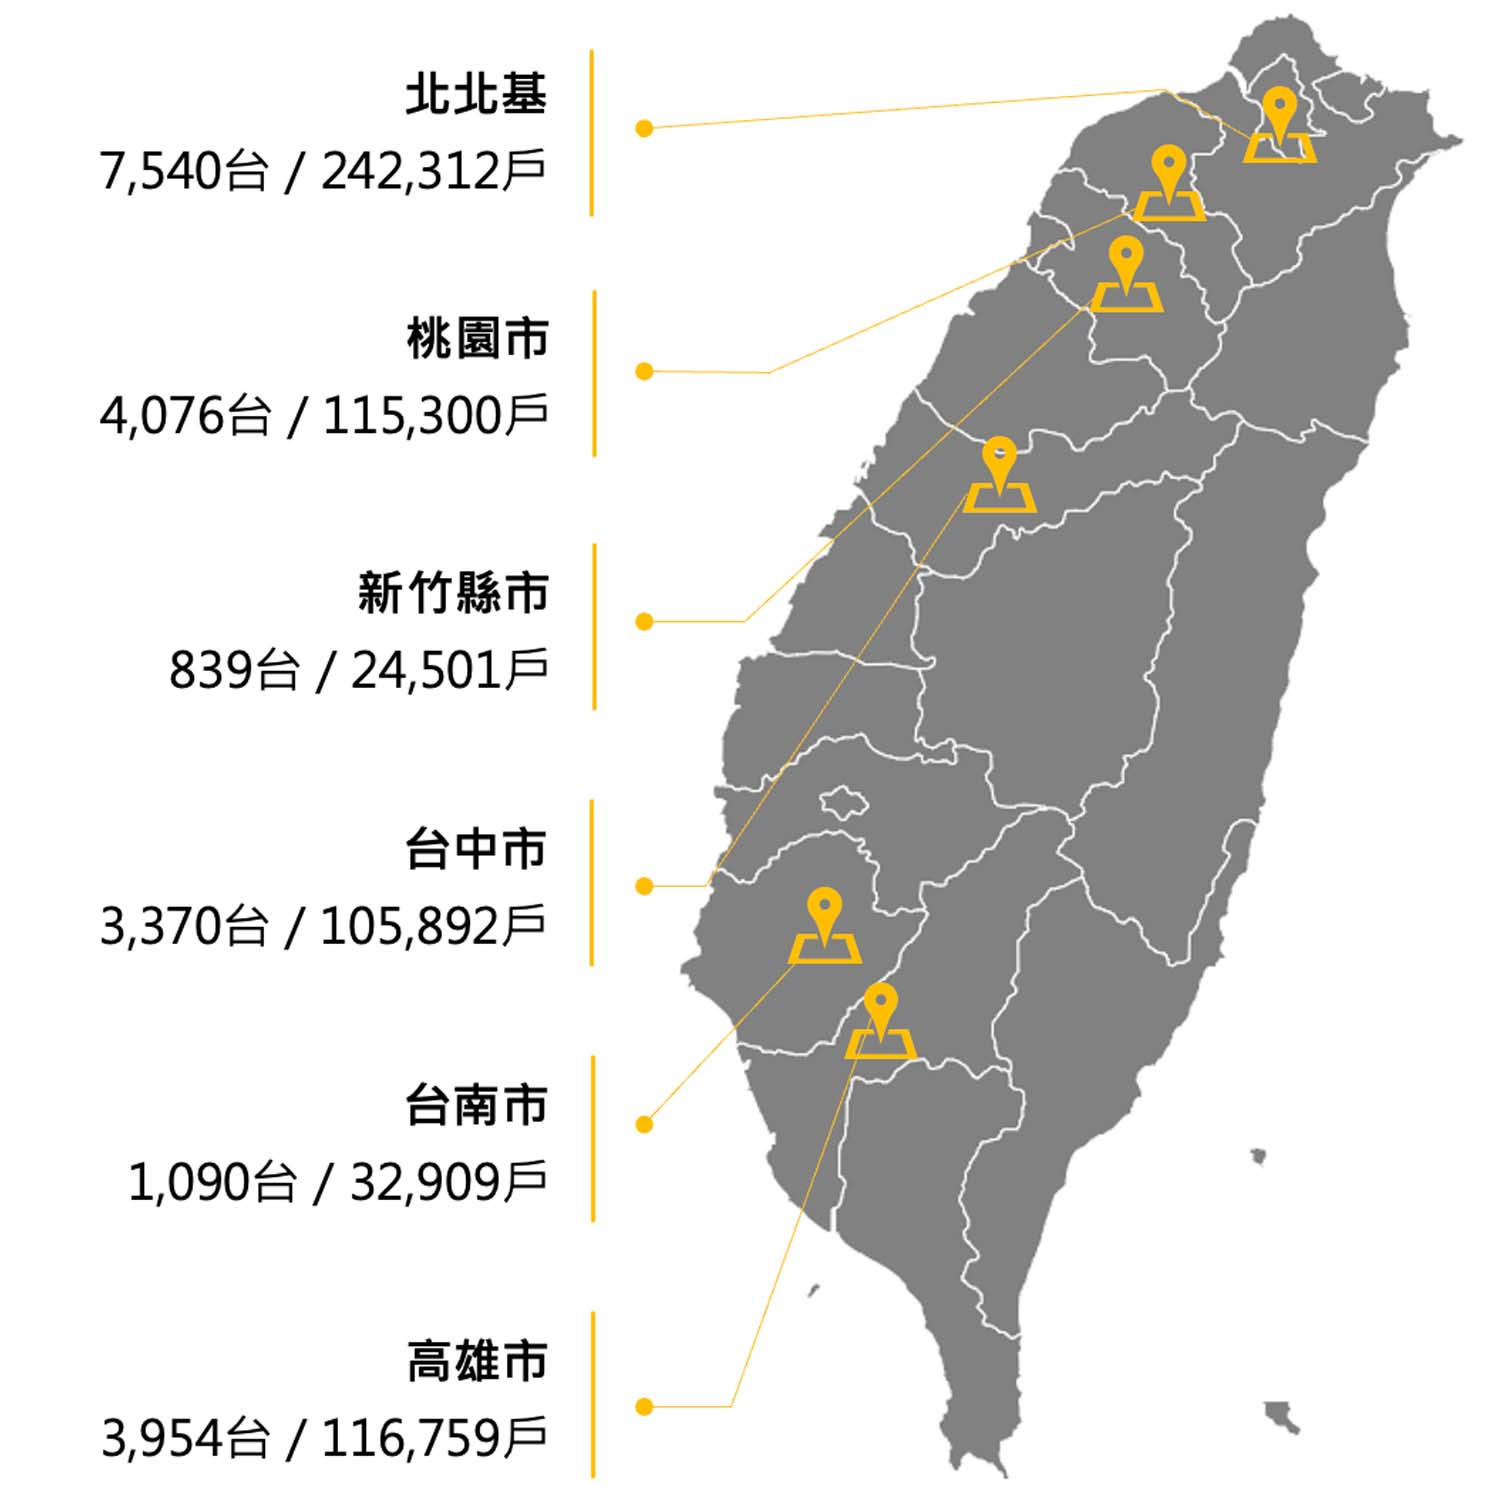
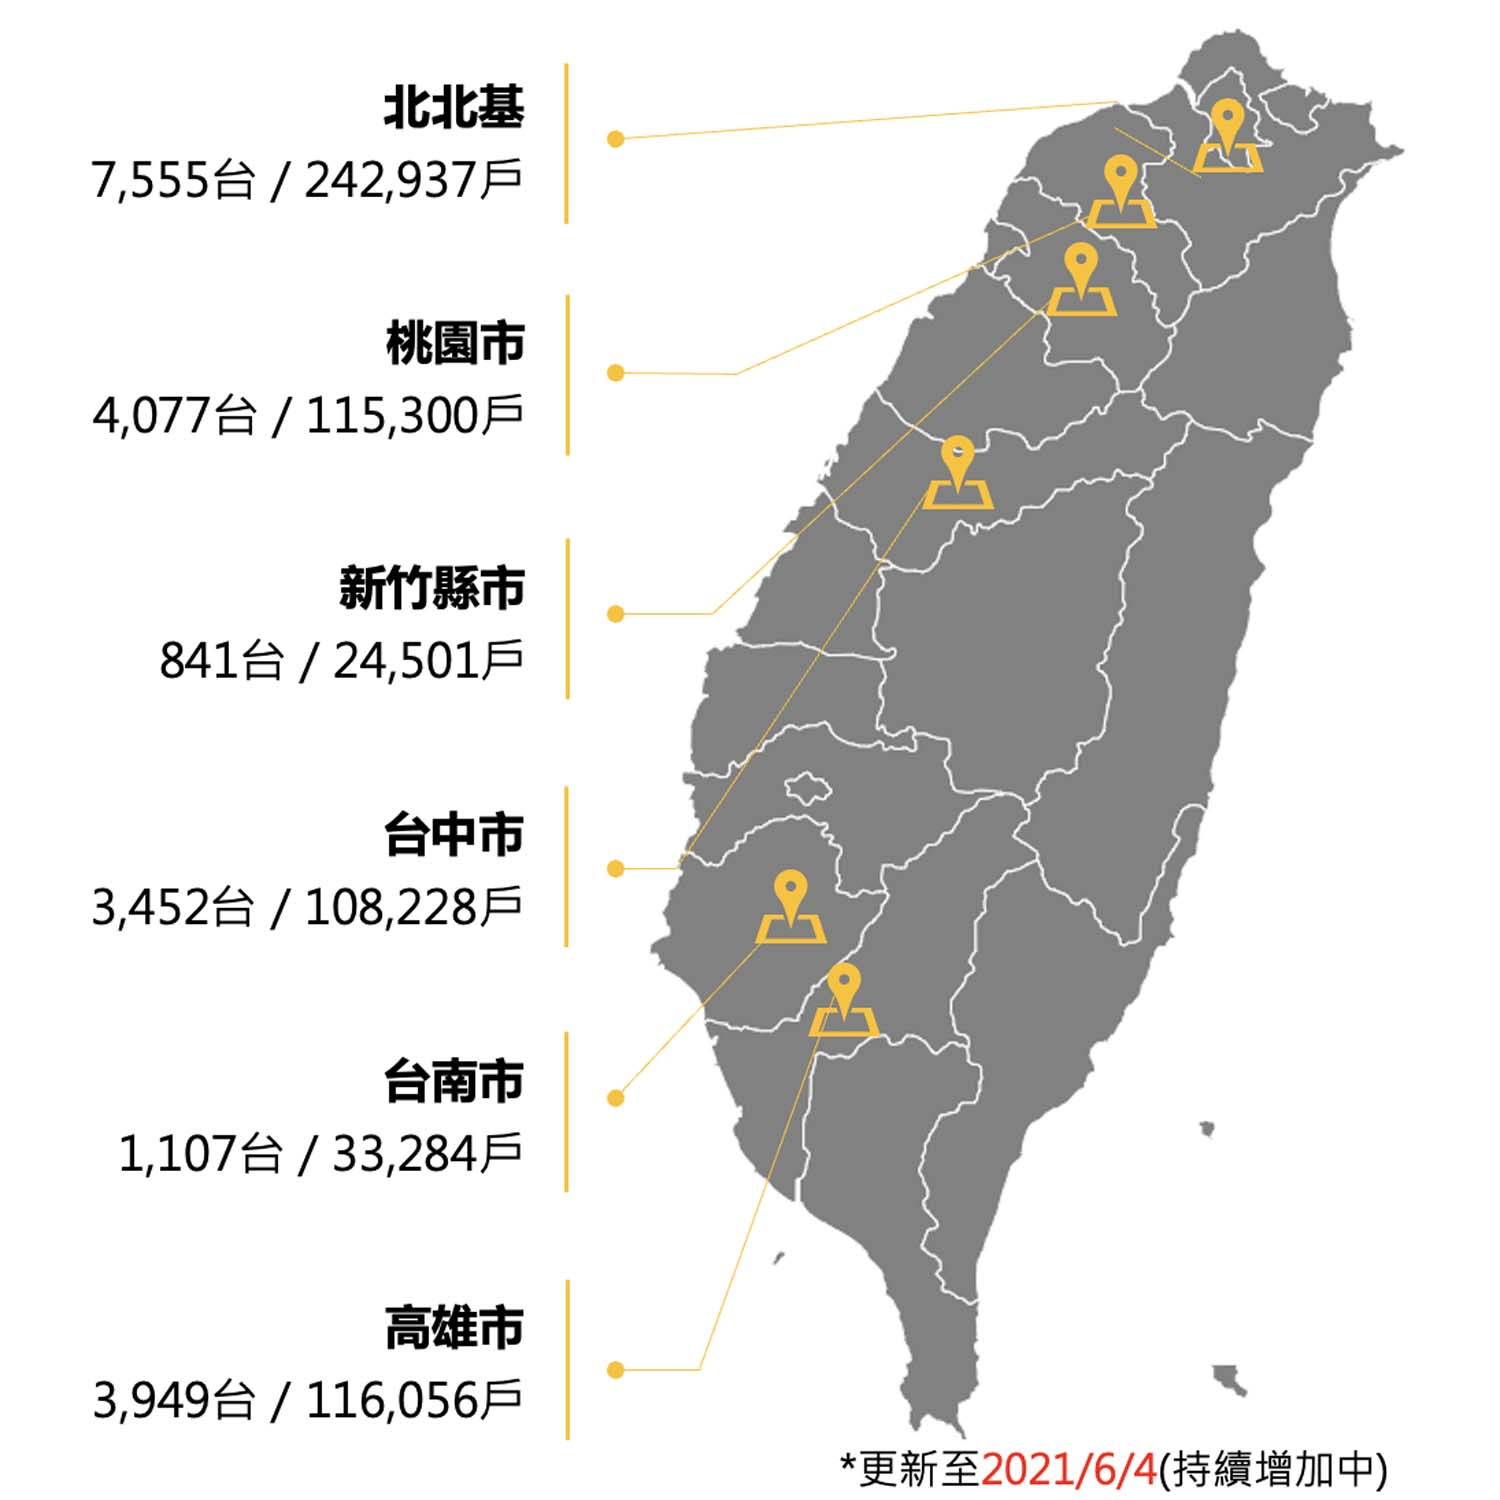
更新
更新圖案

diff --git a/ad/ad-service-community.html b/ad/ad-service-community.html
@@ -211,8 +211,8 @@
 			<div class="row block-inf">
 				<p class="title">
 					全台分布：
-					<span class="count">16,706棟</span>住宅
-					<span class="count">20,869台</span>螢幕
+					<span class="count">16,800棟</span>住宅
+					<span class="count">20,981台</span>螢幕
 				</p>
 				<div class="pic-tw col-md-12 col-lg-12 d-flex align-items-stretch mb-lg-0">
 					<img src="assets/img/tw.jpg" alt="">
